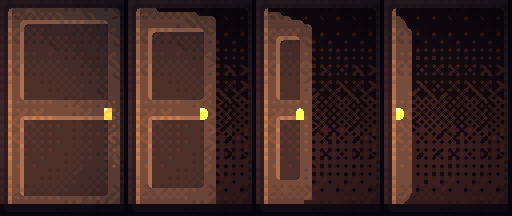
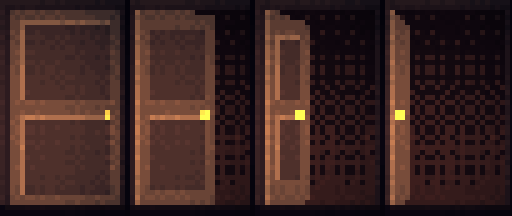
Redraw the player as a lanky lad in shirtsleeves and use 5x5 pixel blocks for the art

diff --git a/CLAUDE.md b/CLAUDE.md
@@ -97,4 +97,4 @@ All art is placeholder (now 4x resolution, see below), generated by throwaway sc
 
 ## Art resolution
 
-The look is film noir, early evening: dark desaturated palettes with blue shadows, a dusk sky in the window, warm pools of light (lamps, the back bar, a wall sconce) baked into the art by the generator (`Lit` with dithered bands) and a trench coat and fedora on the player. The picture is natively 1280x720: the room renders into a 1280x720 target (`ui::RENDER_SCALE` = 4, nearest filtered) and every image has 4 pixels per game unit (backgrounds 1280x720, a 96x192 character frame drawn 24x48 units, props with `scale = 4` in the room file, the cursor 40x56). Game coordinates, scripts, hotspots and walk areas are still in the 320x180 virtual space; sprites snap to 1/4 unit. The art is designed on a 320x180 grid (hand-picked colour ramps, Bayer dithering, hue-shifted shadows, a darkened one pixel outline, in the style of Thimbleweed Park) by a throwaway C# program (System.Drawing via PowerShell `Add-Type`, not in the repo), then upscaled 4x with Scale2x twice (rounds off staircases without blending colours) and, for room backgrounds, a little per-pixel grain. The cursor is that program's 4x upscale of the original 10x14 arrow, drawn at `size() / RENDER_SCALE`. Item icons in the panel are still flat colour squares.
+The look is film noir, early evening: dark desaturated palettes with blue shadows, a dusk sky in the window, warm pools of light (lamps, the back bar, a wall sconce) baked into the art by the generator (`Lit` with dithered bands) and a lanky hatless player in a cream shirt, red braces and a teal tie (hand-pixelled from ASCII maps in the generator) who stands out against the dark rooms. The picture is natively 1280x720: the room renders into a 1280x720 target (`ui::RENDER_SCALE` = 4, nearest filtered) and every image has 4 pixels per game unit (backgrounds 1280x720, a 96x192 character frame drawn 24x48 units, props with `scale = 4` in the room file, the cursor 40x56). Game coordinates, scripts, hotspots and walk areas are still in the 320x180 virtual space; sprites snap to 1/4 unit. The art is designed on a 320x180 grid (hand-picked colour ramps, Bayer dithering, hue-shifted shadows, a darkened one pixel outline, in the style of Thimbleweed Park) by a throwaway C# program (System.Drawing via PowerShell `Add-Type`, not in the repo), then resampled so each art pixel is a hard 5x5 block (1.25 game units, `Cv.Mid`; no smoothing), except the cursor which is a plain 4x upscale. The cursor is that program's 4x upscale of the original 10x14 arrow, drawn at `size() / RENDER_SCALE`. Item icons in the panel are still flat colour squares.
